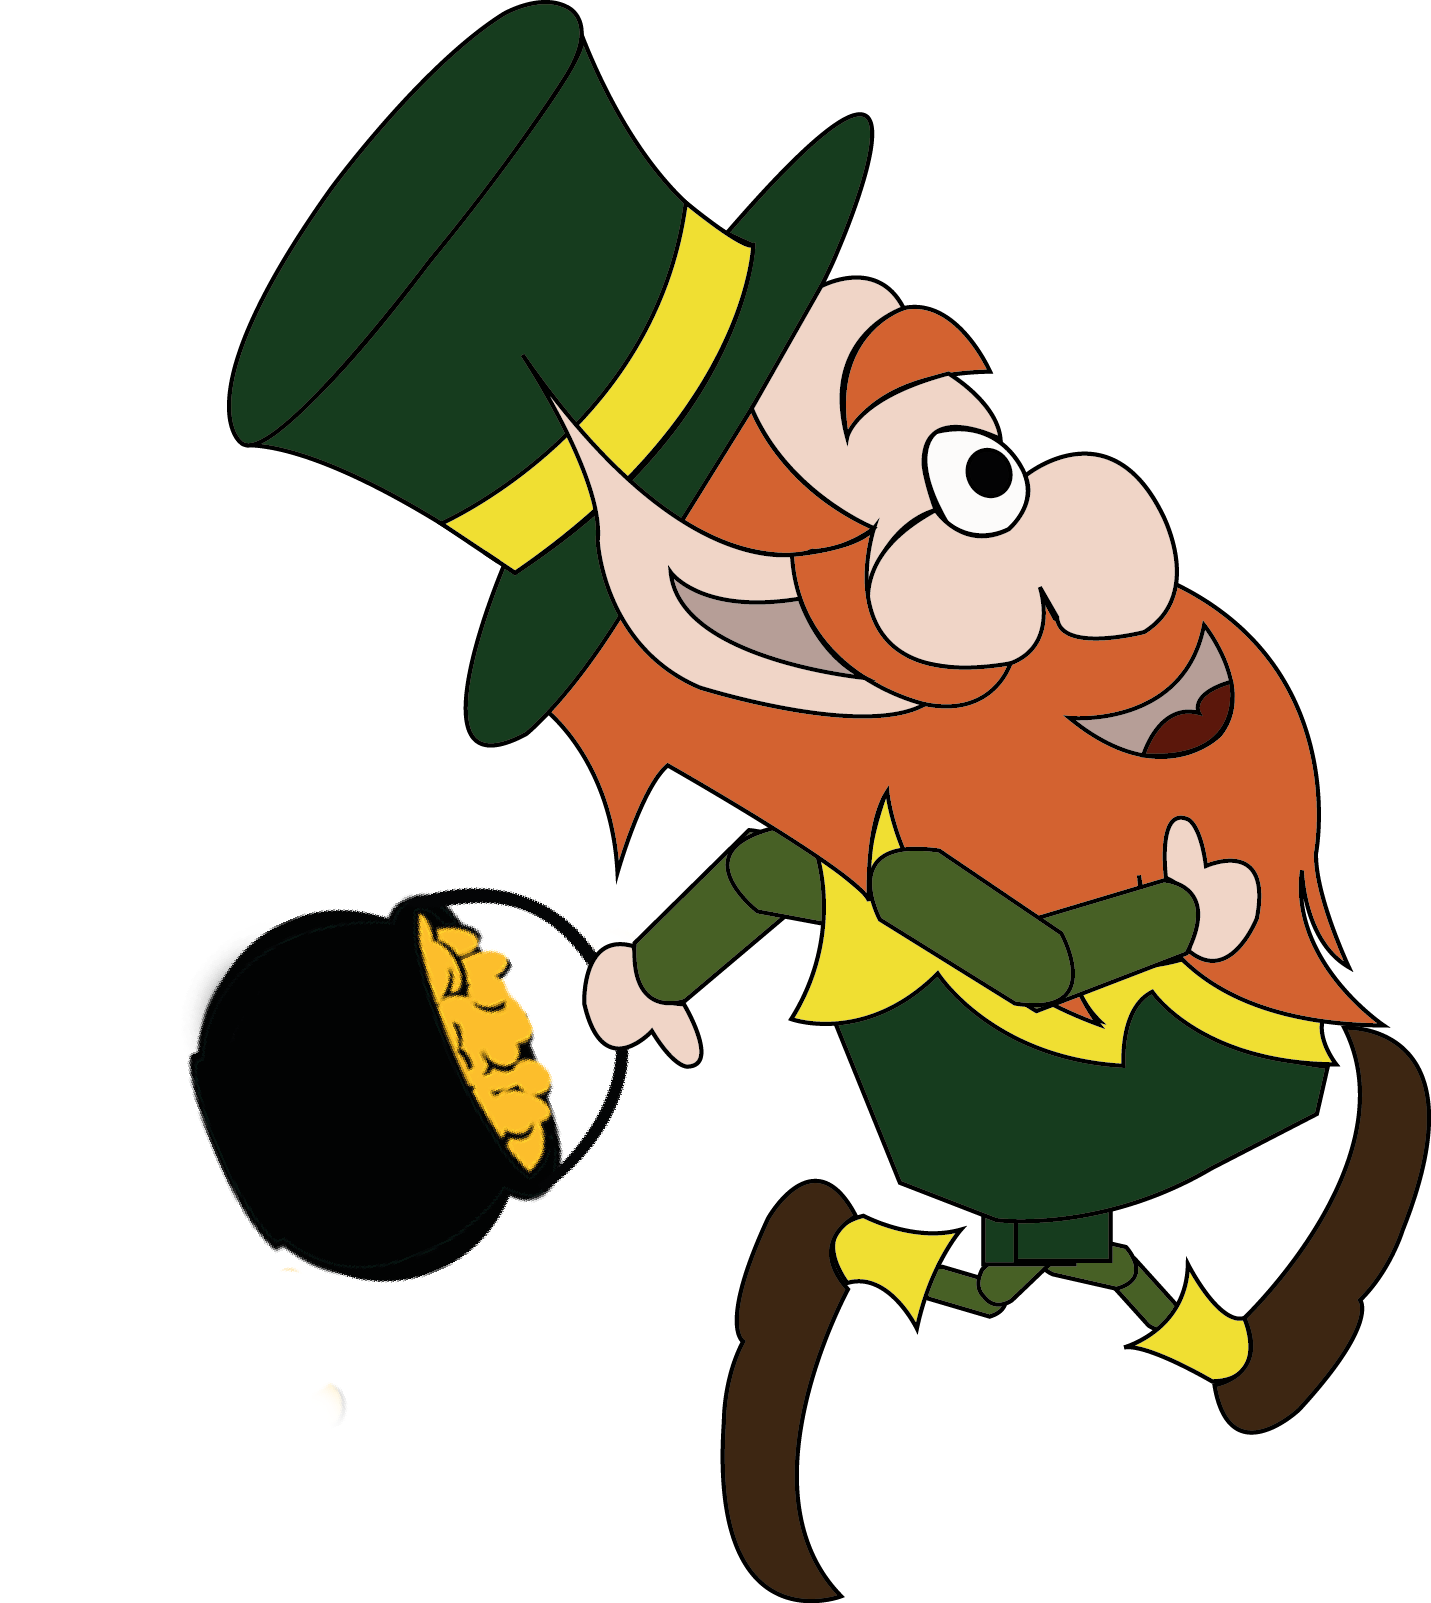
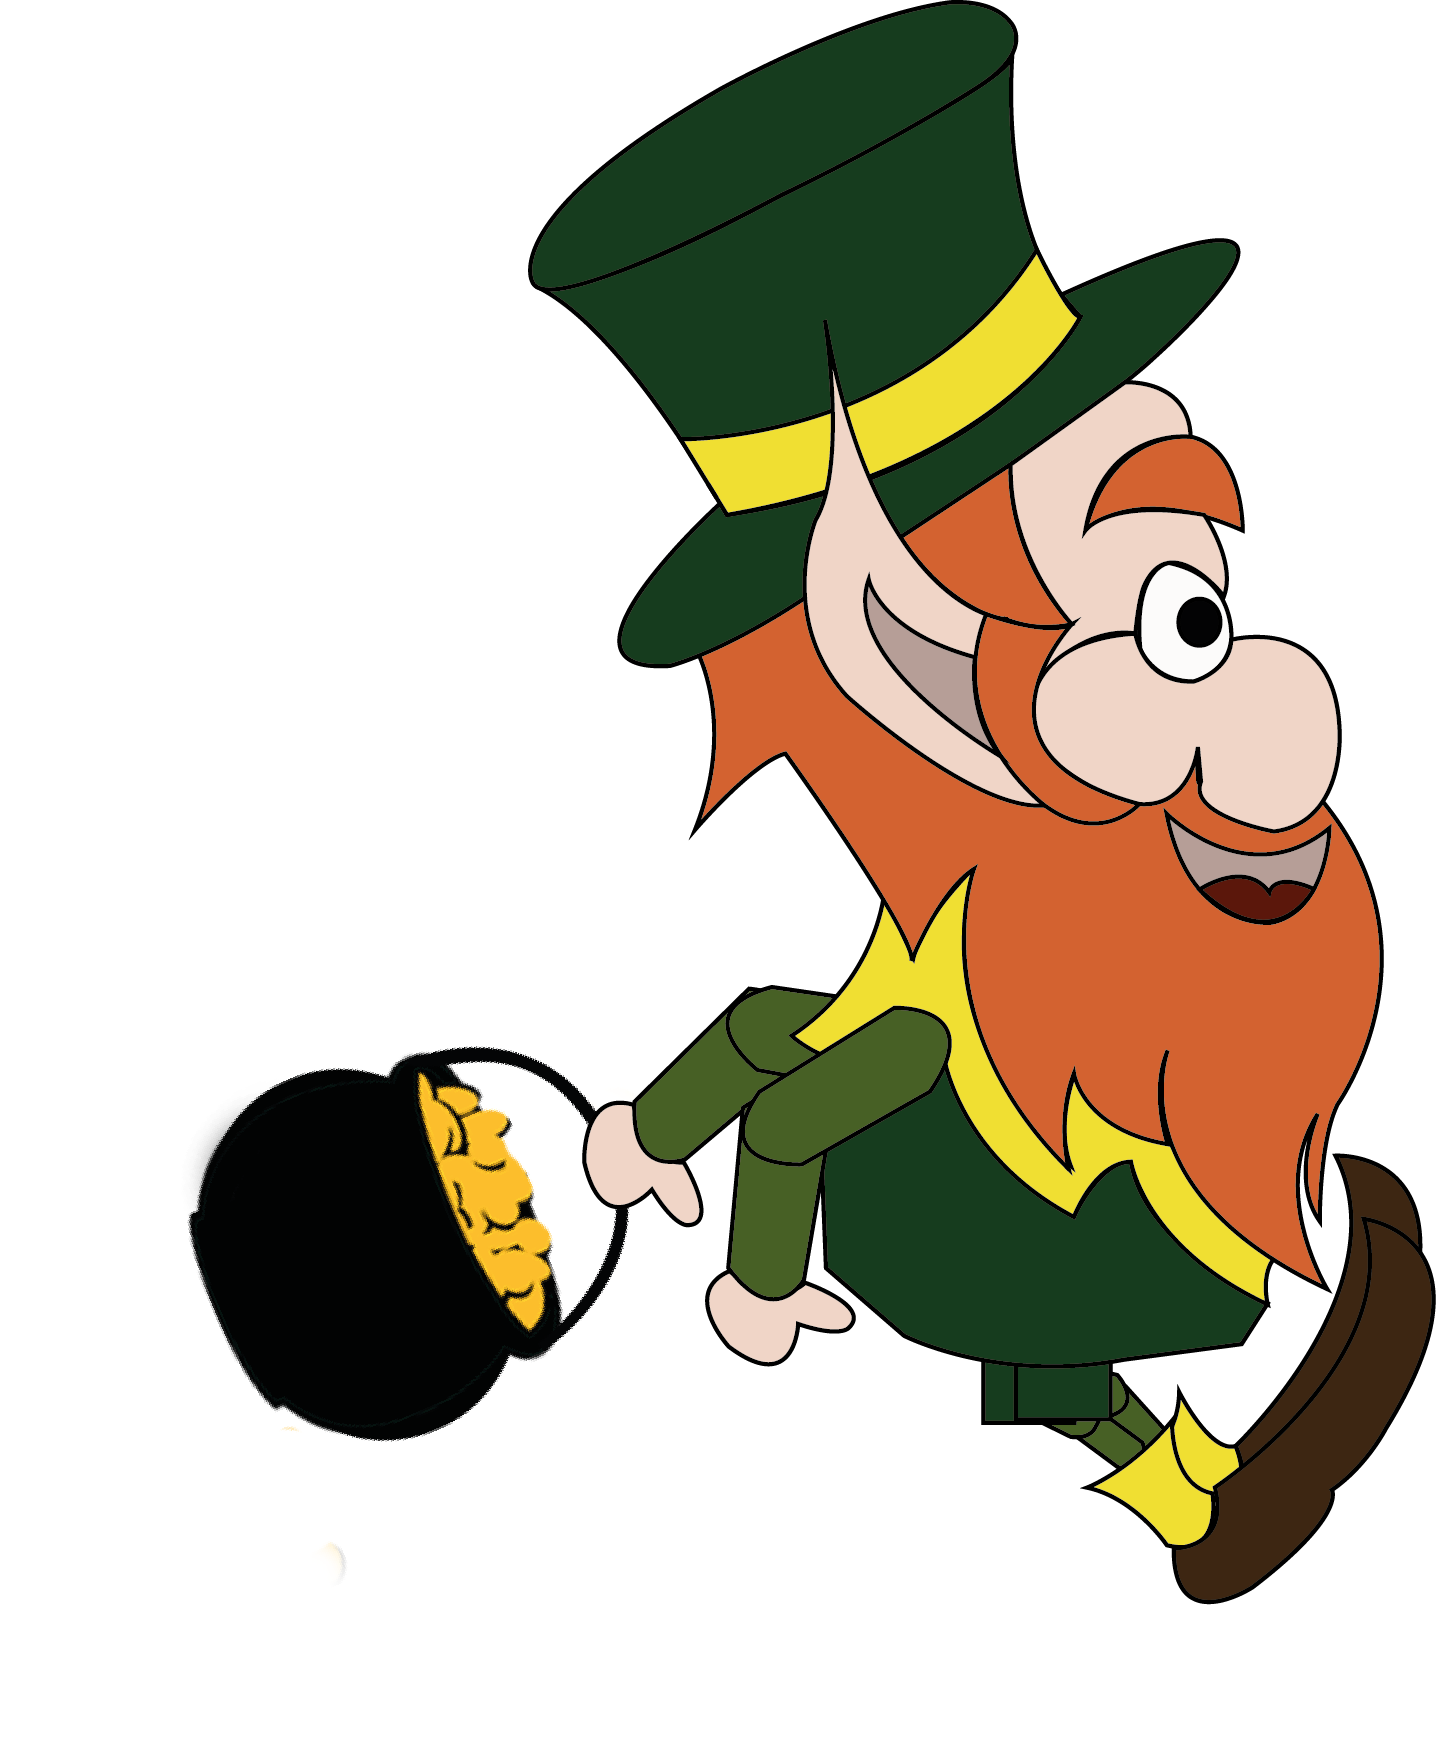
New Animations

diff --git a/Goblin Race/script/player.js b/Goblin Race/script/player.js
@@ -33,23 +33,43 @@ function Player() {
 	this.data = {
 	    "images": [queue.getResult("player")],
         "frames": [
+            
 
-            [2, 996, 633, 985], 
-            [591, 2, 678, 969], 
-            [2, 2, 587, 992], 
-            [1271, 880, 670, 961], 
-            [1271, 2, 718, 876]
+            [819, 1408, 587, 992], //3 Laufen
+            [1408, 996, 596, 992], //5
+            [2, 3074, 678, 969], //2
+            [1408, 2, 604, 992], //6
+                      
+            [1408, 996, 596, 992], //4
+
+            [2, 3074, 678, 969], //1 
+                       
+            [2, 1408, 815, 786], //7 Rutschen
+
+            [2, 2196, 718, 876], //8 Springen
+            [682, 3074, 716, 802], //9
+
+            [2, 2, 1404, 1404] //0 Fliegen
         ],
         "animations": {
-            "Run": [0, 3, true, 0.3],
-            "Jump" : [4],
-            "KoboldTopf":[0], 
-            "Laufen1":[1], 
-            "Laufen2":[2], 
-            "Laufen3":[3], 
-            "Springen":[4]
+    
+            "Run": [0, 4, true, 0.2],
+            "Jump": [8],
+            "Jump2": [7],
+
+            "FliegenBlase":[0], 
+            "Laufen1(2)":[1], 
+            "Laufen1":[2], 
+            "Laufen2":[3], 
+            "Laufen3(2)":[4], 
+            "Laufen3":[5], 
+            "Laufen4":[6], 
+            "Rutschen":[7], 
+            "Springen":[8], 
+            "Springen1":[9]
         },
 	}
+
 
 	var spritesheet = new createjs.SpriteSheet(this.data);
 	this.image = new createjs.Sprite(spritesheet, "Jump");
@@ -120,8 +140,11 @@ Player.prototype.update = function() {
 	if (this.onGround != this.groundCheck) {
 	    if (this.onGround)
 	        this.image.gotoAndPlay("Run");
-	    else
-	        this.image.gotoAndPlay("Jump");
+	    else {
+	        if (Math.random() > 0.5) this.image.gotoAndPlay("Jump");
+	        else this.image.gotoAndPlay("Jump2");
+	        
+	    }
 	    this.groundCheck = this.onGround;
 	}
 

diff --git a/Goblin Race/script/preload.js b/Goblin Race/script/preload.js
@@ -2,7 +2,7 @@
     var manifest = [
         {id:"bg", src:"img/Himmel.png"},
         {id:"fg", src:"img/Wiese.png"},
-        { id: "player", src: "img/player/data.png" },
+        { id: "player", src: "img/player/player.png" },
         { id: "platform1", src: "img/platform.png" },
 
         { id: "bg_green", src: "img/bg_green.png" },
